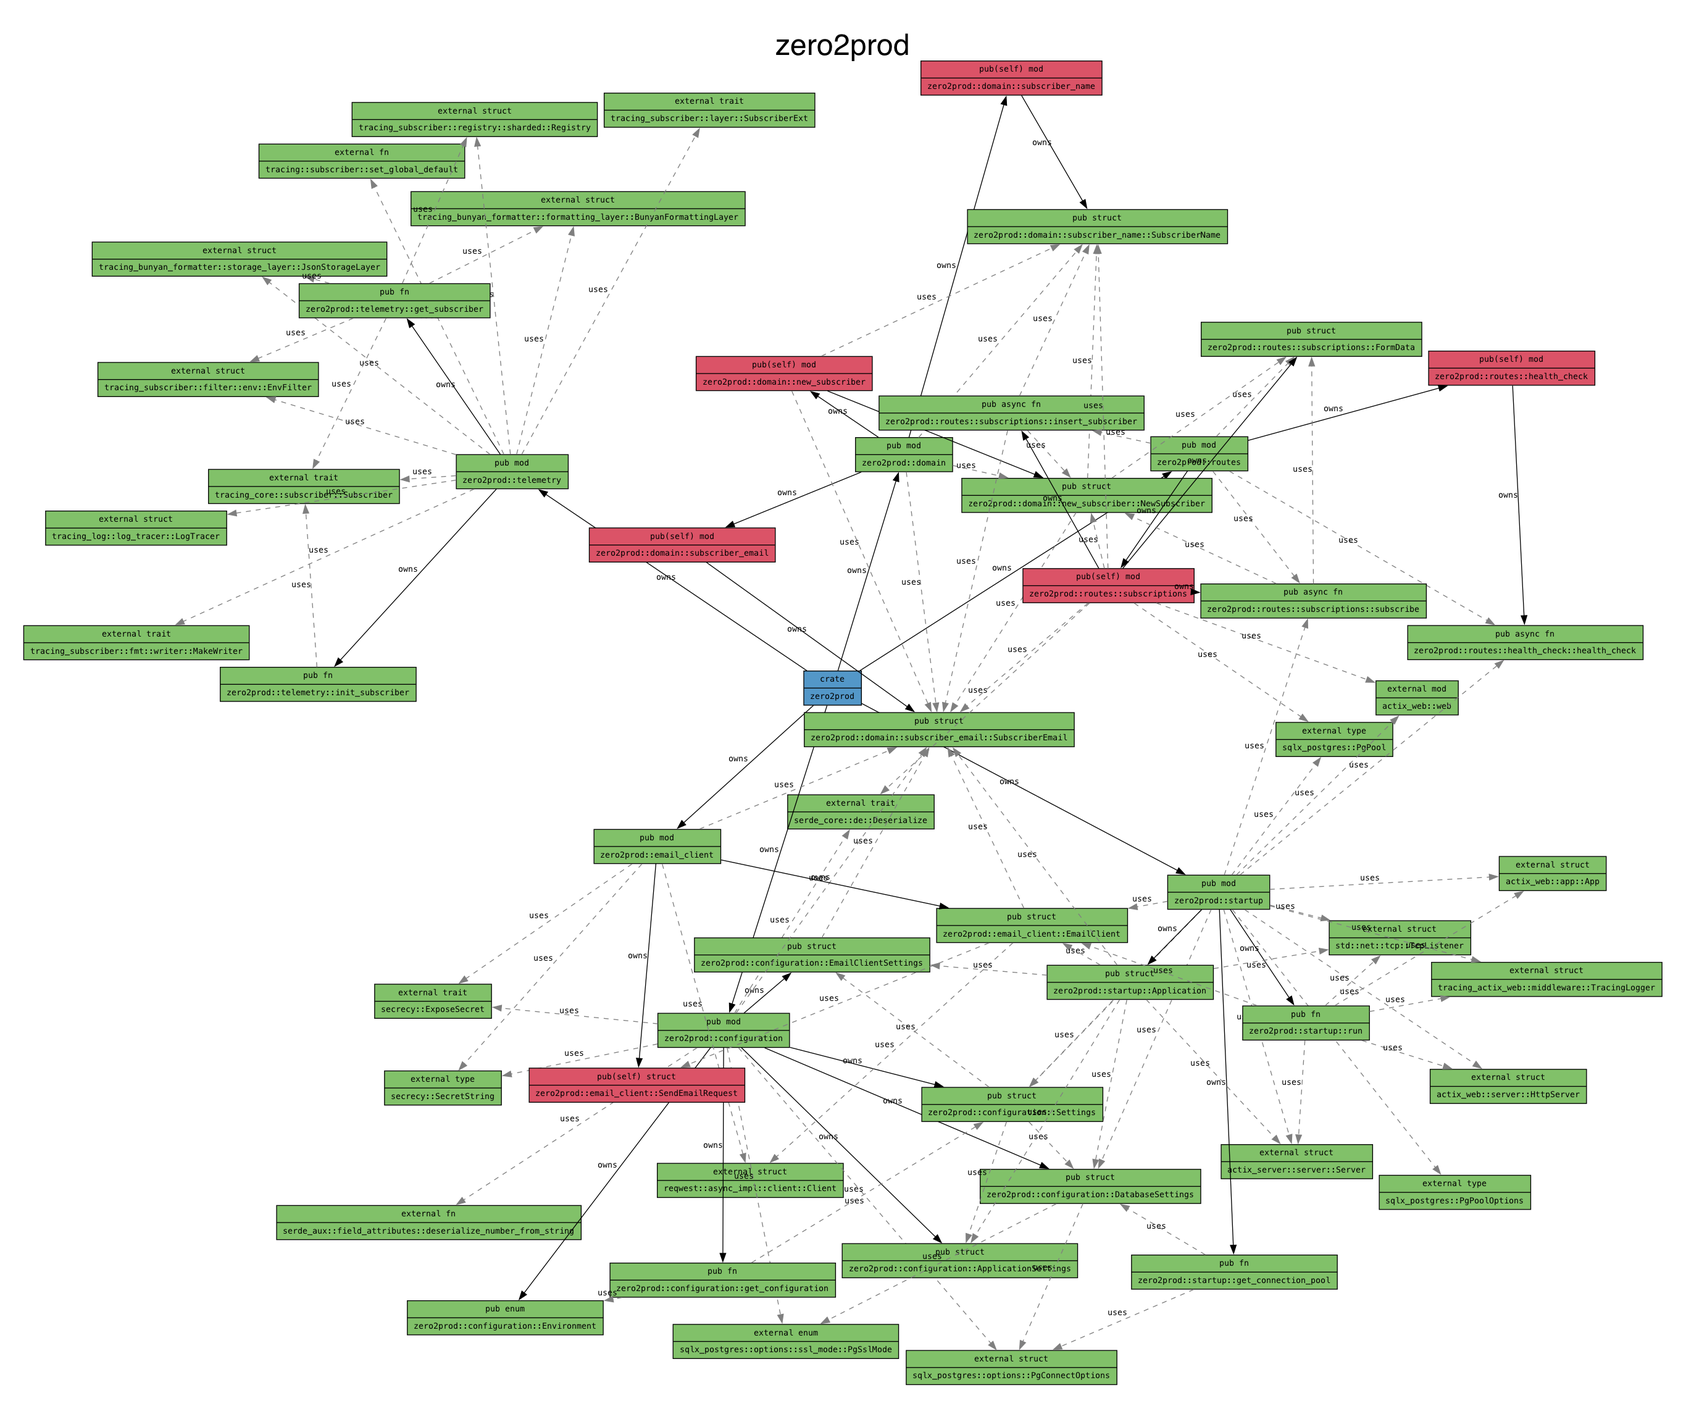
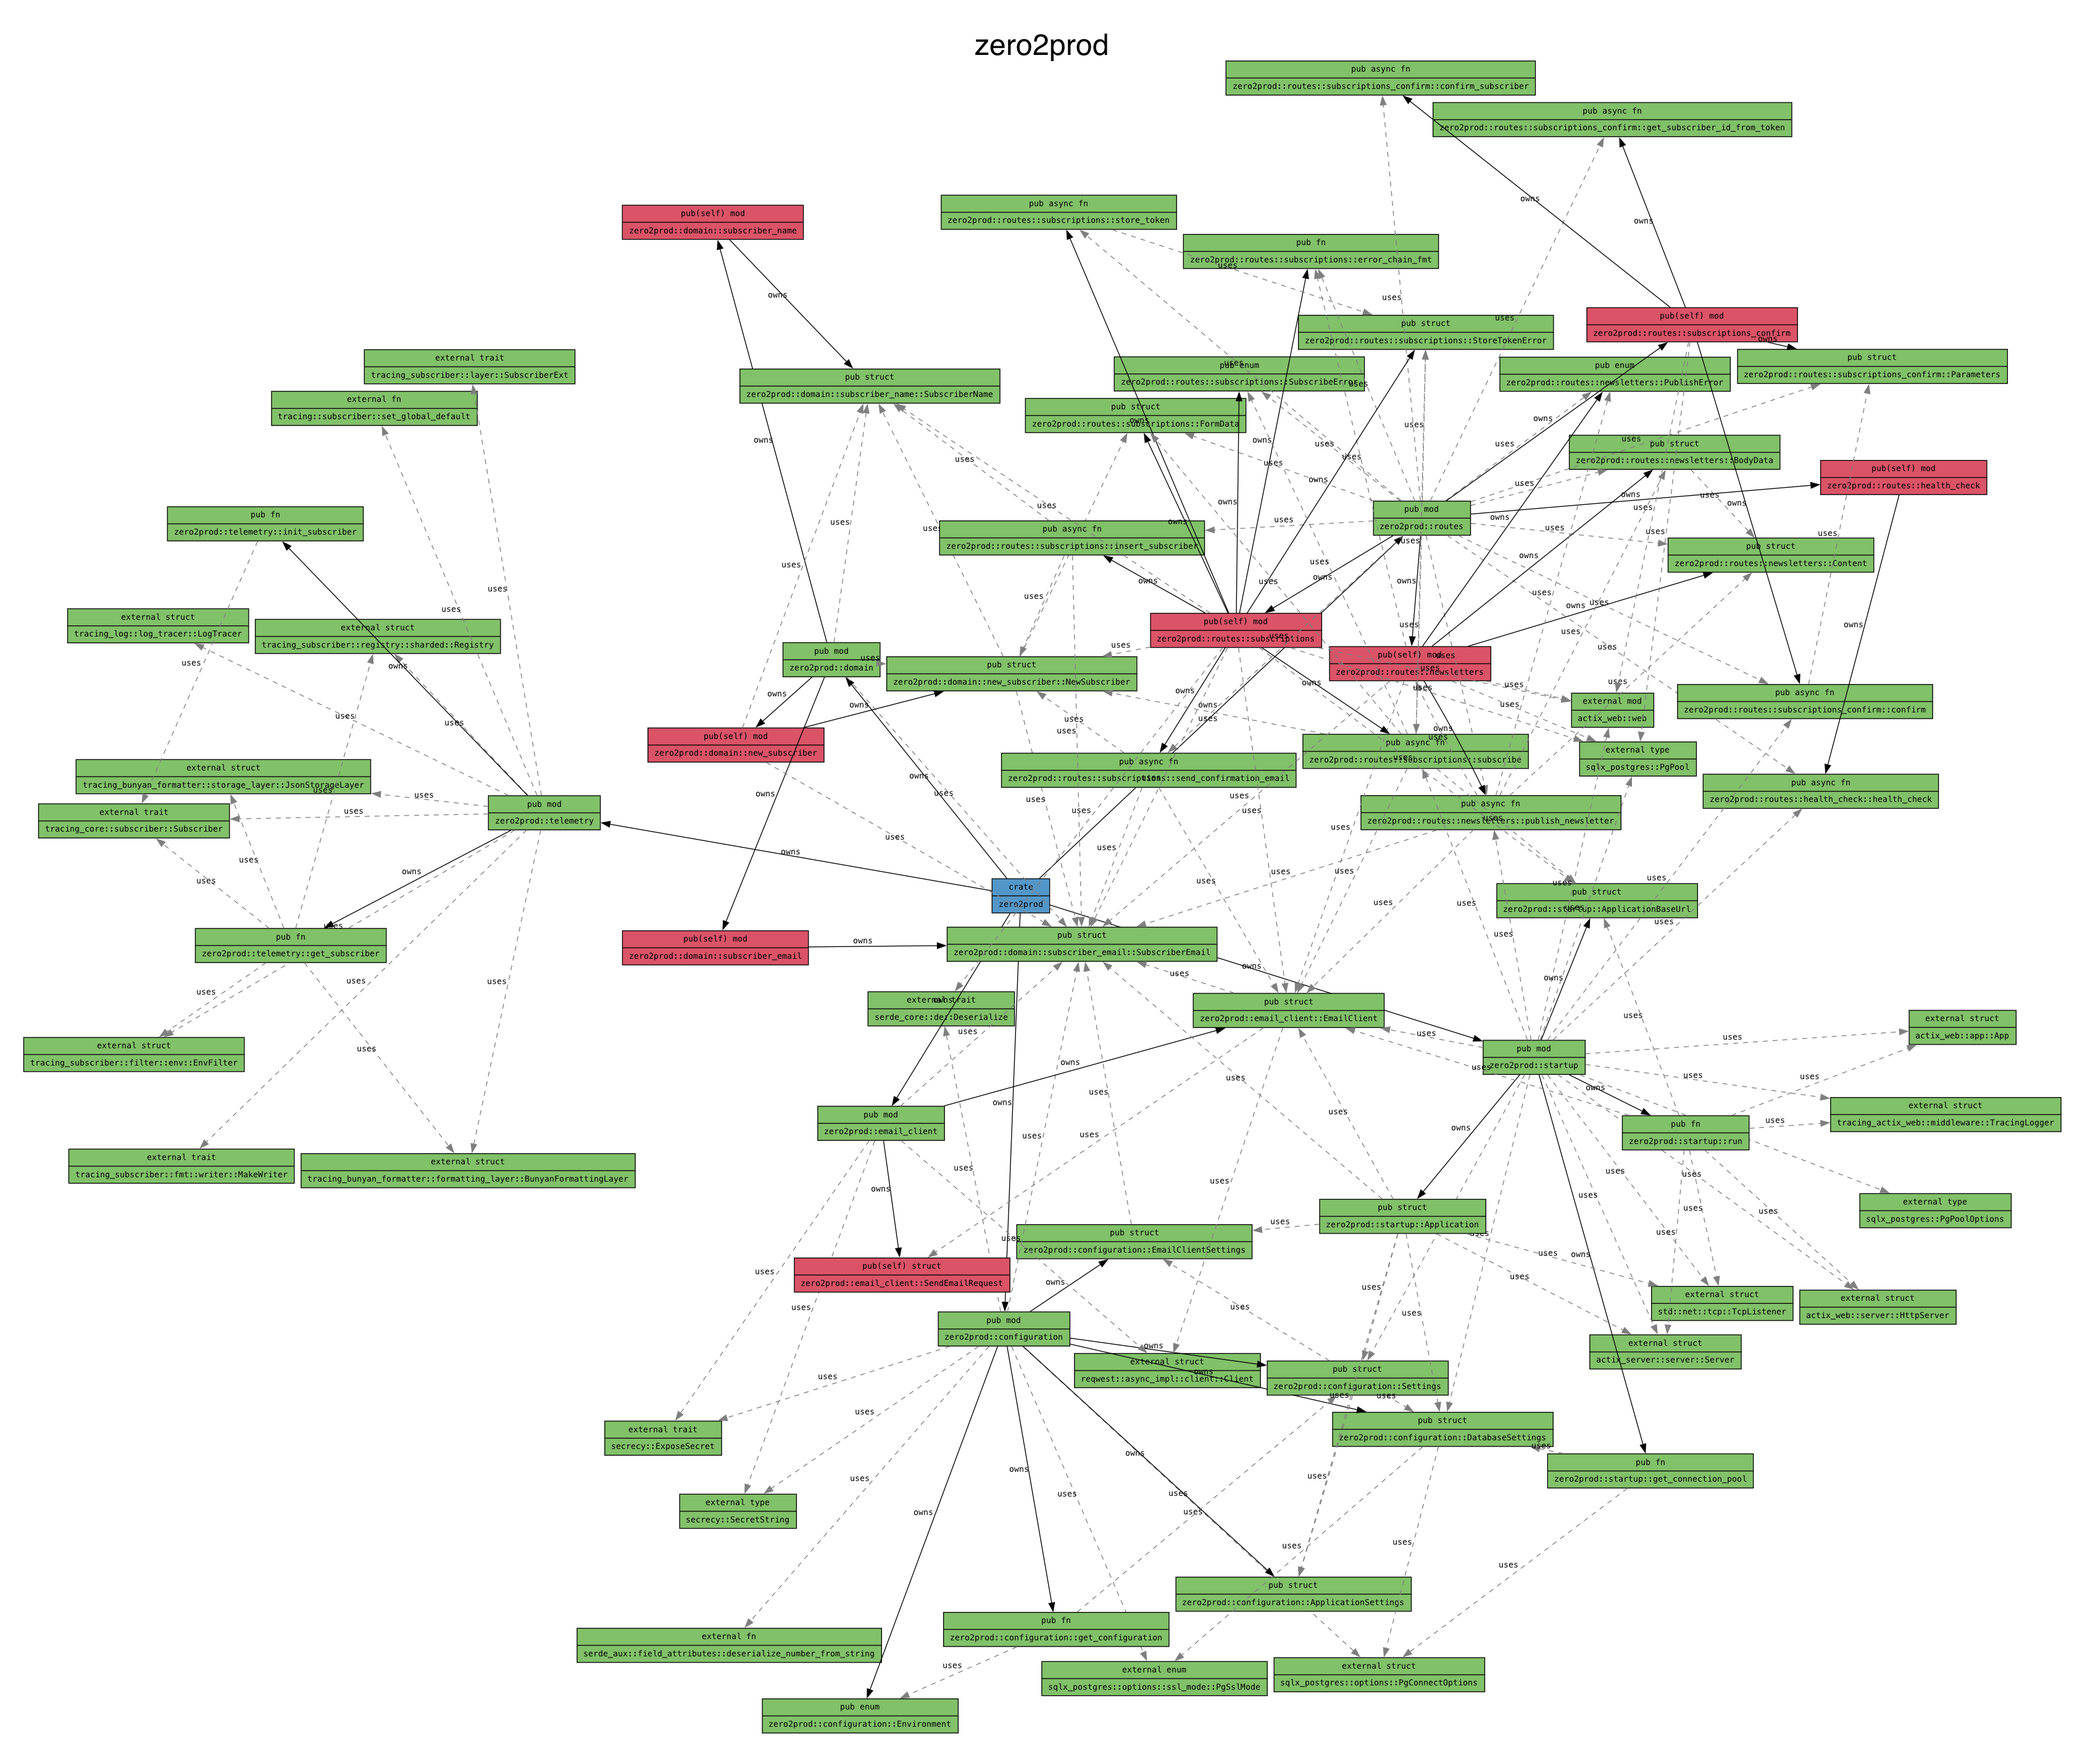
Using SHA3-256 to hash passwords before storing them in the database.

Changed region(s): [[0.0, 0.0, 0.996, 0.9956], [0.0, 0.5911, 0.1245, 0.6223]]

diff --git a/src/routes/newsletters.rs b/src/routes/newsletters.rs
@@ -1,10 +1,16 @@
+//! src/routes/newsletter.rs
 use crate::domain::SubscriberEmail;
 use crate::email_client::EmailClient;
 use crate::routes::error_chain_fmt;
-use actix_web::http::StatusCode;
+use actix_web::HttpRequest;
+use actix_web::http::header::{HeaderMap, HeaderValue};
+use actix_web::http::{StatusCode, header};
 use actix_web::{HttpResponse, ResponseError, web};
 use anyhow::Context;
+use base64::Engine;
+use secrecy::{ExposeSecret, SecretString};
 use sqlx::PgPool;
+use sha3::Digest;
 
 #[derive(serde::Deserialize)]
 pub struct BodyData {
@@ -18,8 +24,19 @@ pub struct Content {
     text: String,
 }
 
+struct ConfirmedSubscriber {
+    email: SubscriberEmail,
+}
+
+struct Credentials {
+    username: String,
+    password: SecretString,
+}
+
 #[derive(thiserror::Error)]
 pub enum PublishError {
+    #[error("Authentication failed")]
+    AuthError(#[source] anyhow::Error),
     #[error(transparent)]
     UnexpectedError(#[from] anyhow::Error),
 }
@@ -31,23 +48,45 @@ impl std::fmt::Debug for PublishError {
 }
 
 impl ResponseError for PublishError {
-    fn status_code(&self) -> StatusCode {
+    fn error_response(&self) -> HttpResponse {
         match self {
-            PublishError::UnexpectedError(_) => StatusCode::INTERNAL_SERVER_ERROR,
+            PublishError::UnexpectedError(_) => {
+                HttpResponse::new(StatusCode::INTERNAL_SERVER_ERROR)
+            }
+            PublishError::AuthError(_) => {
+                let mut response = HttpResponse::new(StatusCode::UNAUTHORIZED);
+                let header_value = HeaderValue::from_str(r#"Basic realm="publish""#).unwrap();
+                response
+                    .headers_mut()
+                    .insert(header::WWW_AUTHENTICATE, header_value);
+                response
+            }
         }
     }
 }
 
-struct ConfirmedSubscriber {
-    email: SubscriberEmail,
-}
-
-#[tracing::instrument(name = "Publish Newsletter", skip(body, pool, email_client))]
+#[tracing::instrument(name = "Publish a newsletter issue",
+    skip(body, pool, email_client),
+    fields(username=tracing::field::Empty, user_id=tracing::field::Empty)
+)]
 pub async fn publish_newsletter(
     body: web::Json<BodyData>,
     pool: web::Data<PgPool>,
     email_client: web::Data<EmailClient>,
+    request: HttpRequest,
 ) -> Result<HttpResponse, PublishError> {
+    let credentials = basic_authentication(request.headers())
+        .map_err(PublishError::AuthError)?;
+    tracing::Span::current().record(
+        "username",
+        &tracing::field::display(&credentials.username),
+    );
+
+    let user_id = validate_credentials(credentials, &pool).await?;
+    tracing::Span::current().record(
+        "user_id", &tracing::field::display(&user_id)
+    );
+
     let subscribers = get_confirmed_subscribers(&pool).await?;
     for subscriber in subscribers {
         match subscriber {
@@ -92,9 +131,69 @@ async fn get_confirmed_subscribers(
     .into_iter()
     .map(|r| match SubscriberEmail::parse(r.email) {
         Ok(email) => Ok(ConfirmedSubscriber { email }),
-        Err(error) => Err(anyhow::anyhow!(error))
+        Err(error) => Err(anyhow::anyhow!(error)),
     })
     .collect();
 
     Ok(confirmed_subscribers)
+}
+
+fn basic_authentication(headers: &HeaderMap) -> Result<Credentials, anyhow::Error> {
+    let header_value = headers
+        .get("Authorization")
+        .context("The 'Authorization' header was missing")?
+        .to_str()
+        .context("The 'Authorization' header was not a valid UTF-8 string.")?;
+    let base64encoded_segment = header_value
+        .strip_prefix("Basic ")
+        .context("The authorization scheme was not 'Basic'.")?;
+    let decoded_bytes = base64::engine::general_purpose::STANDARD
+        .decode(base64encoded_segment)
+        .context("Failed to base64-decode 'Basic' credentials")?;
+    let decoded_credentials = String::from_utf8(decoded_bytes)
+        .context("The decoded credentials string is not a valid UTF-8.")?;
+
+    let mut credentials = decoded_credentials.splitn(2, ':');
+    let username = credentials
+        .next()
+        .ok_or_else(|| anyhow::anyhow!("A username must be provided in 'Basic' auth"))?
+        .to_string();
+    let password = credentials
+        .next()
+        .ok_or_else(|| anyhow::anyhow!("A password must be provided in 'Basic' auth"))?
+        .to_string();
+
+    Ok(Credentials {
+        username,
+        password: SecretString::from(password),
+    })
+}
+
+async fn validate_credentials(
+    credentials: Credentials,
+    pool: &PgPool,
+) -> Result<uuid::Uuid, PublishError> {
+    let password_hash = sha3::Sha3_256::digest(
+        credentials.password.expose_secret().as_bytes()
+    );
+    let password_hash = format!("{:x}", password_hash);
+
+    let user_id: Option<_> = sqlx::query!(
+        r#"
+        SELECT user_id
+        FROM users
+        WHERE username = $1 AND password_hash = $2
+        "#,
+        credentials.username,
+        password_hash
+    )
+    .fetch_optional(pool)
+    .await
+    .context("Failed to perform a query to validate auth credentials")
+    .map_err(PublishError::UnexpectedError)?;
+
+    user_id
+        .map(|row| row.user_id)
+        .ok_or_else(|| anyhow::anyhow!("Invalid username or password."))
+        .map_err(PublishError::AuthError)
 }

diff --git a/tests/api/helpers.rs b/tests/api/helpers.rs
@@ -9,6 +9,7 @@ use wiremock::MockServer;
 use zero2prod::configuration::{DatabaseSettings, get_configuration};
 use zero2prod::startup::{Application, get_connection_pool};
 use zero2prod::telemetry::{get_subscriber, init_subscriber};
+use sha3::Digest;
 
 static TRACING: LazyLock<()> = LazyLock::new(|| {
     let default_filter_level = "debug".to_string();
@@ -28,6 +29,7 @@ pub struct TestApp {
     pub port: u16,
     pub db_pool: PgPool,
     pub email_server: MockServer,
+    test_user: TestUser,
 }
 
 pub struct ConfirmationLinks {
@@ -57,12 +59,17 @@ pub async fn spawn_app() -> TestApp {
     // Intentionally discarding the JoinHandle without triggering clippy warnings.
     drop(tokio::spawn(application.run_until_stopped()));
 
-    TestApp {
+    let test_app = TestApp {
         address: format!("http://localhost:{}", application_port),
         db_pool: get_connection_pool(&configuration.database),
         email_server,
         port: application_port,
-    }
+        test_user: TestUser::generate(),
+    };
+
+    test_app.test_user.store(&test_app.db_pool).await;
+
+    test_app
 }
 
 pub async fn configure_database(config: &DatabaseSettings) -> PgPool {
@@ -135,9 +142,41 @@ impl TestApp {
     pub async fn post_newsletters(&self, body: serde_json::Value) -> reqwest::Response {
         reqwest::Client::new()
             .post(format!("{}/newsletters", &self.address))
+            .basic_auth(&self.test_user.username, Some(&self.test_user.password))
             .json(&body)
             .send()
             .await
             .expect("Failed to execute request.")
+    }
+}
+
+pub struct TestUser {
+    pub user_id: Uuid,
+    pub username: String,
+    pub password: String,
+}
+
+impl TestUser {
+    pub fn generate() -> Self {
+        Self {
+            user_id: Uuid::new_v4(),
+            username: Uuid::new_v4().to_string(),
+            password: Uuid::new_v4().to_string()
+        }
+    }
+
+    async fn store(&self, pool: &PgPool) {
+        let password_hash = sha3::Sha3_256::digest(self.password.as_bytes());
+        let password_hash = format!("{:x}", password_hash);
+        sqlx::query!(
+            "INSERT INTO users (user_id, username, password_hash)
+            VALUES ($1, $2, $3)",
+            self.user_id,
+            self.username,
+            password_hash,
+        )
+        .execute(pool)
+        .await
+        .expect("Failed to create test user");
     }
 }

diff --git a/tests/api/newsletter.rs b/tests/api/newsletter.rs
@@ -125,3 +125,25 @@ async fn newsletters_return_400_for_invalid_data(
         error_message
     );
 }
+
+#[tokio::test]
+async fn requests_missing_authorization_are_rejected() {
+    let app = spawn_app().await;
+
+    let response = reqwest::Client::new()
+        .post(format!("{}/newsletters", &app.address))
+        .json(&serde_json::json!({
+            "title": "Newsletter",
+            "content": {
+                "text": "Newsletter body as plain text",
+                "html": "<p>Newsletter body as html</p>"
+            }
+        }))
+        .send()
+        .await
+        .expect("Falied to execute request");
+
+    // Assert
+    assert!(401 == response.status());
+    assert!(r#"Basic realm="publish""# == response.headers()["WWW-Authenticate"]);
+}
